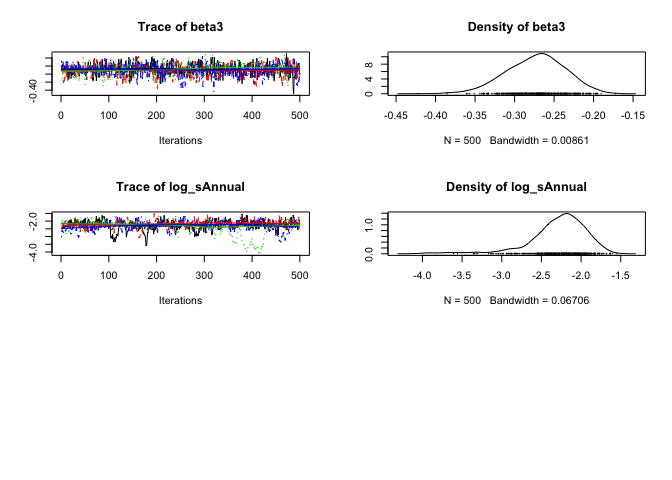
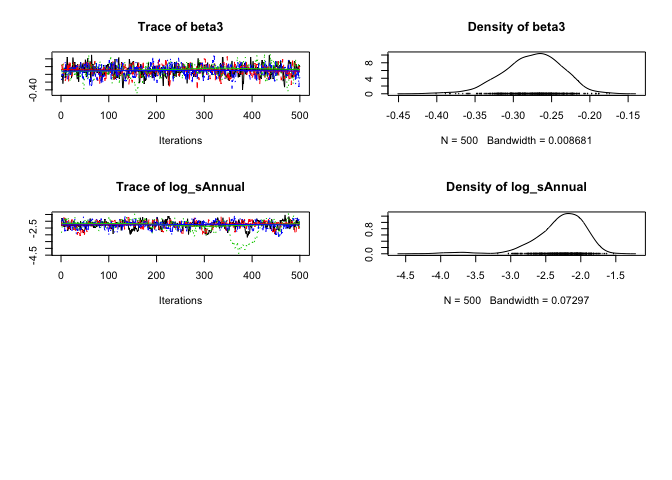
seed and fix remotes

diff --git a/README.md b/README.md
@@ -79,25 +79,25 @@ data <- bauw::peregrine
 data$Annual <- factor(data$Year)
 
 # analyse
-analysis <- analyse(model, data = data)
+analysis <- analyse(model, data = data, seed = 3L)
 #> Warning: There were 1 chains where the estimated Bayesian Fraction of Missing Information was low. See
 #> http://mc-stan.org/misc/warnings.html#bfmi-low
 #> Warning: Examine the pairs() plot to diagnose sampling problems
 #> # A tibble: 1 x 8
 #>       n     K nsamples nchains nsims       duration  rhat converged
 #>   <int> <int>    <int>   <int> <int> <S4: Duration> <dbl>     <lgl>
-#> 1    40     5     2000       4  4000           2.4s  1.09      TRUE
+#> 1    40     5     2000       4  4000           2.2s  1.09      TRUE
 
 # coefficient table
 coef(analysis)
 #> # A tibble: 5 x 7
 #>          term    estimate         sd      zscore       lower       upper
 #> *  <S3: term>       <dbl>      <dbl>       <dbl>       <dbl>       <dbl>
-#> 1       alpha  4.20981240 0.04101485 102.6490860  4.12692411  4.28941521
-#> 2       beta1  1.19147824 0.07229730  16.5360395  1.06427514  1.34414156
-#> 3       beta2  0.01681622 0.03151445   0.5303659 -0.04687958  0.07647151
-#> 4       beta3 -0.27059010 0.03714313  -7.3558915 -0.35055832 -0.20426787
-#> 5 log_sAnnual -2.23019468 0.37452309  -6.1157263 -3.35208672 -1.75093765
+#> 1       alpha  4.21102465 0.04069179 103.4724429  4.13242832  4.28919651
+#> 2       beta1  1.19367659 0.07382047  16.2356425  1.06746923  1.34706829
+#> 3       beta2  0.01615742 0.03079083   0.5452871 -0.04471434  0.07876253
+#> 4       beta3 -0.27229969 0.03799213  -7.2384299 -0.35667675 -0.20883674
+#> 5 log_sAnnual -2.23333921 0.38423236  -5.9774889 -3.40111033 -1.75960102
 #> # ... with 1 more variables: pvalue <dbl>
 
 # trace plots
